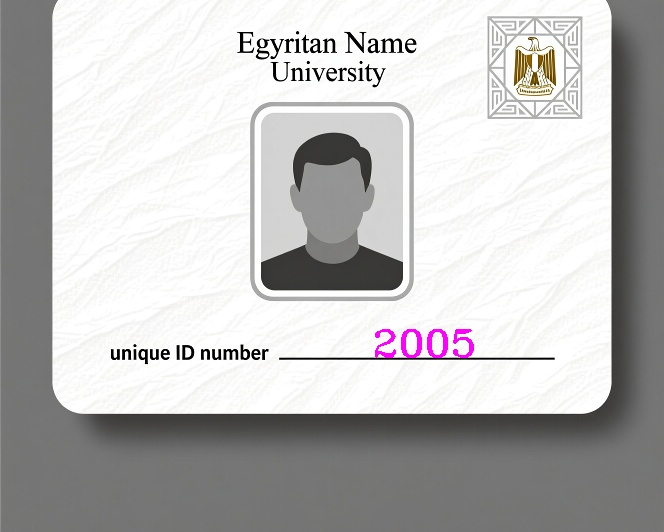
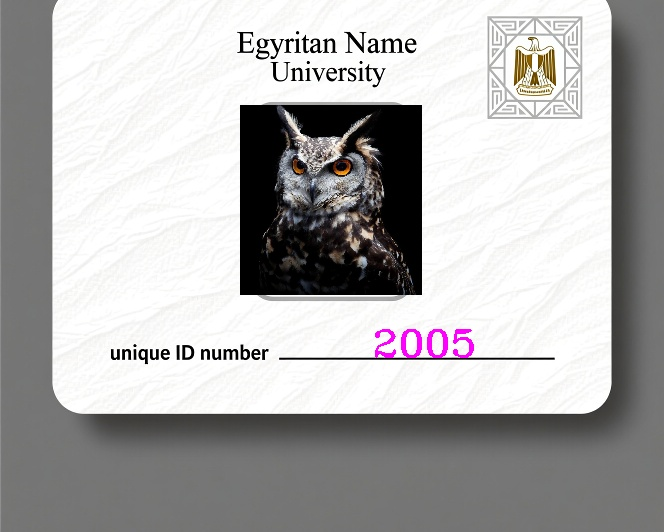
Add files via upload

Changed region(s): [[0.3614, 0.1805, 0.6325, 0.5714]]

diff --git a/image processing/tasks/task1/task1.py b/image processing/tasks/task1/task1.py
@@ -2,7 +2,12 @@ import cv2 as cv
 import numpy as np
 
 #importing image
-task1_img = cv.imread(r"E:\Fury center\Projects\Machine_Learning\assigment_1_image.png")
+task1_img = cv.imread("assigment_1_image.png")
+owl_img= cv.imread("rog_owl.jpg")
+
+if task1_img is None and placeholder_img is None:
+    print("No images exists!")
+    exit()
 
 def rescaleFrame(frame: np.ndarray, scale: float = 0.5) -> np.ndarray:
     width = int(frame.shape[1] * scale)
@@ -25,8 +30,15 @@ def insert_text(frame: np.ndarray, text: str) -> np.ndarray:
                2, (255,0,255), 2)
     return frame
 
-#rescaling image
+def placehold(frame: np.ndarray, placeholder: np.ndarray, x: int = 240, y: int = 105) -> np.ndarray:
+    h, w = placeholder.shape[:2]
+
+    frame[y:y+h, x:x+w] = placeholder
+    return frame
+
+#rescaling images
 task1_img = rescaleFrame(task1_img)
+owl_img = rescaleFrame(owl_img, 0.075)
 
 #colored image
 print(f"image details: {task1_img.shape}")
@@ -46,8 +58,12 @@ id_text = input("Enter your id: ")
 id_image = insert_text(cropped_img, id_text)
 cv.imshow('id_embedded', id_image)
 
+#placeholder image
+placeholder_img = placehold(id_image, owl_img)
+cv.imshow('placeholder_img', placeholder_img)
+
 #export the final edit
-cv.imwrite("Mina_Montaser.jpg", id_image)
+cv.imwrite("Mina_Montaser.jpg", placeholder_img)
 
 cv.waitKey(0)
 cv.destroyAllWindows()
